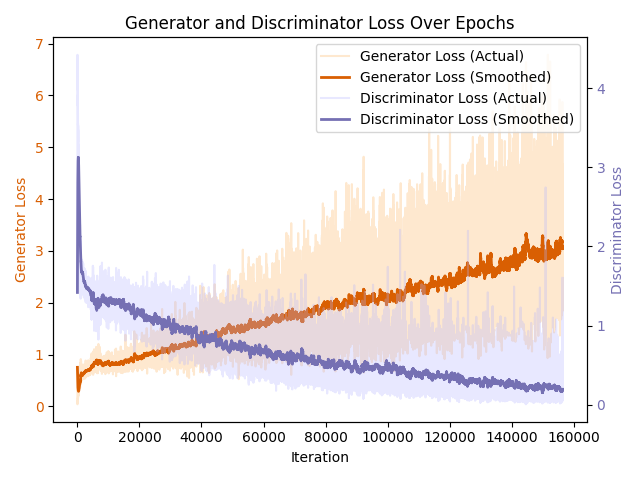
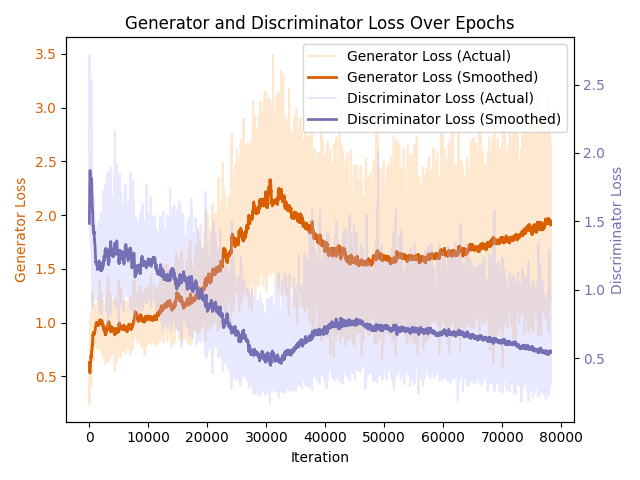
modify conditional GAN

Changed region(s): [[0.0312, 0.0625, 0.9375, 0.9375], [0.4688, 0.0938, 0.5, 0.125], [0.125, 0.9062, 0.1562, 0.9375]]

diff --git a/model.py b/model.py
@@ -98,56 +98,57 @@ class CNNDiscriminator(nn.Module):
 
 # GAN 条件生成器
 class ConditionalGenerator(nn.Module):
-    def __init__(self, noise_dim, img_channels, num_classes):
+    def __init__(self, label_dim, noise_dim, img_channels, num_classes):
         super(ConditionalGenerator, self).__init__()
-        self.label_embedding = nn.Embedding(num_classes, noise_dim)  # 嵌入标签
-        self.init_size = 4
-        self.l1 = nn.Sequential(
-            nn.Linear(noise_dim * 2, 512 * self.init_size * self.init_size)  # 噪声+标签
-        )
-        self.conv_blocks = nn.Sequential(
-            nn.BatchNorm2d(512),
-            nn.ReLU(),
-            nn.ConvTranspose2d(512, 256, kernel_size=4, stride=2, padding=1),
+        self.label_embedding = nn.Embedding(num_classes, label_dim)  # 嵌入标签
+        input_dim = noise_dim + label_dim
+
+        self.model = nn.Sequential(
+            nn.ConvTranspose2d(input_dim, 256, kernel_size=4, stride=1, padding=0, bias=False),
             nn.BatchNorm2d(256),
-            nn.ReLU(),
-            nn.ConvTranspose2d(256, 128, kernel_size=4, stride=2, padding=1),
+            nn.ReLU(True),
+            nn.ConvTranspose2d(256, 128, kernel_size=4, stride=2, padding=1, bias=False),
             nn.BatchNorm2d(128),
-            nn.ReLU(),
-            nn.ConvTranspose2d(128, img_channels, kernel_size=4, stride=2, padding=1),
+            nn.ReLU(True),
+            nn.ConvTranspose2d(128, 64, kernel_size=4, stride=2, padding=1, bias=False),
+            nn.BatchNorm2d(64),
+            nn.ReLU(True),
+            nn.ConvTranspose2d(64, 3, kernel_size=4, stride=2, padding=1, bias=False),
             nn.Tanh()
         )
 
     def forward(self, z, labels):
         label_embedding = self.label_embedding(labels)
+        label_embedding = label_embedding.unsqueeze(2).unsqueeze(3) 
         input = torch.cat([z, label_embedding], dim=1)  # 拼接噪声和标签
-        out = self.l1(input)
-        out = out.view(out.shape[0], 512, self.init_size, self.init_size)
-        img = self.conv_blocks(out)
-        return img
+        return self.model(input)
 
 # GAN 条件判别器
 class ConditionalDiscriminator(nn.Module):
-    def __init__(self, img_channels, num_classes):
+    def __init__(self, label_dim, img_channels, num_classes):
         super(ConditionalDiscriminator, self).__init__()
-        self.label_embedding = nn.Embedding(num_classes, 1 * 32 * 32)
+        self.label_embedding = nn.Embedding(num_classes, 32 * 32)
+        self.label_proj = nn.Sequential(
+            nn.Linear(label_dim, 32 * 32),
+            nn.LeakyReLU(0.2, inplace=True)
+        )
         self.model = nn.Sequential(
-            nn.Conv2d(img_channels + 1, 128, 4, 2, 1, bias=False),  # 图像+标签通道
+            nn.Conv2d(img_channels + 1, 64, 4, 2, 1, bias=False),  # 图像+标签通道
             nn.LeakyReLU(0.2, inplace=True),
-            nn.Conv2d(128, 256, 4, 2, 1, bias=False),
+            nn.Conv2d(64, 128, kernel_size=4, stride=2, padding=1, bias=False),
+            nn.BatchNorm2d(128),
+            nn.LeakyReLU(0.2, inplace=True),
+            nn.Conv2d(128, 256, kernel_size=4, stride=2, padding=1, bias=False),
             nn.BatchNorm2d(256),
             nn.LeakyReLU(0.2, inplace=True),
-            nn.Conv2d(256, 512, 4, 2, 1, bias=False),
-            nn.BatchNorm2d(512),
-            nn.LeakyReLU(0.2, inplace=True),
-            nn.Flatten(),
-            nn.Linear(4 * 4 * 512, 1),
+            nn.Conv2d(256, 1, kernel_size=4, stride=1, padding=0, bias=False),
             nn.Sigmoid()
         )
 
     def forward(self, x, labels):
         # 将标签嵌入为 [batch_size, 1, 32, 32]
-        label_embedding = self.label_embedding(labels).view(labels.size(0), 1, 32, 32)
+        label_embedding = self.label_embedding(labels).view(-1, 1, 32, 32)
+        # projected_labels = self.label_proj(label_embedding).view(-1, 1, 32, 32)
         # 拼接标签嵌入与图像
         input = torch.cat([x, label_embedding], dim=1)
-        return self.model(input)
+        return self.model(input).view(-1, 1)

diff --git a/conditional_generator.py b/conditional_generator.py
@@ -16,17 +16,9 @@ from utils import (
 
 # 训练 GAN
 def train_conditional_gan(dataloader, generator, discriminator, g_optimizer, d_optimizer, criterion, noise_dim, device, num_classes, epochs):
-    generator.train()
-    discriminator.train()
 
     g_losses = []
     d_losses = []
-
-    # 创建固定的噪声和标签用于观察训练变化
-    fixed_n_sample_per_class = 5
-    fixed_total_samples = fixed_n_sample_per_class * 10  # 10类
-    fixed_noise = torch.randn(fixed_total_samples, noise_dim).to(device)
-    fixed_labels = torch.tensor([[i]*fixed_n_sample_per_class for i in range(10)]).flatten().to(device)
 
     for epoch in range(epochs):
         for i, (real_images, real_labels) in enumerate(dataloader):
@@ -41,7 +33,7 @@ def train_conditional_gan(dataloader, generator, discriminator, g_optimizer, d_o
             d_optimizer.zero_grad()
             real_loss = criterion(discriminator(real_images, real_labels), real_labels_d)
 
-            noise = torch.randn(batch_size, noise_dim).to(device)
+            noise = torch.randn(batch_size, noise_dim, 1, 1).to(device)
             fake_images = generator(noise, real_labels)
 
             fake_loss = criterion(discriminator(fake_images.detach(), real_labels), fake_labels_d)
@@ -51,7 +43,11 @@ def train_conditional_gan(dataloader, generator, discriminator, g_optimizer, d_o
 
             # 训练生成器
             g_optimizer.zero_grad()
-            g_loss = criterion(discriminator(fake_images, real_labels), real_labels_d)
+
+            noise = torch.randn(batch_size, noise_dim, 1, 1).to(device)
+            gen_labels = torch.randint(0, num_classes, (batch_size,)).to(device)
+            gen_imgs = generator(noise, gen_labels)
+            g_loss = criterion(discriminator(gen_imgs, gen_labels), real_labels_d)
             g_loss.backward()
             g_optimizer.step()
 
@@ -62,33 +58,42 @@ def train_conditional_gan(dataloader, generator, discriminator, g_optimizer, d_o
         print(f"Epoch [{epoch+1}/{epochs}] - D Loss: {d_loss.item():.4f}, G Loss: {g_loss.item():.4f}")
         
         # 每隔10个epoch生成并保存图片
-        if (epoch + 1) % 10 == 0:
+        if (epoch + 1) % 1 == 0:
+            generator.eval()
+            # 创建固定的噪声和标签用于观察训练变化
+            fixed_n_sample_per_class = 10
+            fixed_total_samples = fixed_n_sample_per_class * 10  # 10类
+            fixed_noise = torch.randn(fixed_total_samples, noise_dim, 1, 1).to(device)
+            fixed_labels = torch.tensor([[i]*fixed_n_sample_per_class for i in range(10)]).flatten().to(device)
             with torch.no_grad():
                 gen_imgs = generator(fixed_noise, fixed_labels)
                 # 确保输出目录存在
                 if not os.path.exists('output'):
                     os.makedirs('output')
                 save_image(gen_imgs.data, f"output/epoch_{epoch + 1}.png", nrow=fixed_n_sample_per_class, normalize=True)
+            generator.train()
     
     return g_losses, d_losses
 
 
 
 if __name__ == "__main__":
-    batch_size = 128
+    batch_size = 64
     noise_dim = 100
+    g_label_dim = 10
+    d_label_dim = 50
     img_channels = 3
     epochs = 100
     g_lr = 0.0002
-    d_lr = 0.00001
+    d_lr = 0.00003
 
     device = torch.device('cuda' if torch.cuda.is_available() else 'cpu')
 
     dataloader, class_names = get_conditional_dataloader(batch_size)
     num_classes = len(class_names)
 
-    generator = ConditionalGenerator(noise_dim, img_channels, num_classes).to(device)
-    discriminator = ConditionalDiscriminator(img_channels, num_classes).to(device)
+    generator = ConditionalGenerator(g_label_dim, noise_dim, img_channels, num_classes).to(device)
+    discriminator = ConditionalDiscriminator(d_label_dim, img_channels, num_classes).to(device)
 
     criterion = nn.BCELoss()
     g_optimizer = optim.Adam(generator.parameters(), lr=g_lr)

diff --git a/utils.py b/utils.py
@@ -2,6 +2,7 @@ import torch
 import matplotlib.pyplot as plt
 from torchvision import datasets, transforms
 from torchvision.utils import save_image
+import numpy as np
 
 # CIFAR-10 dataloader
 def get_dataloader(batch_size):
